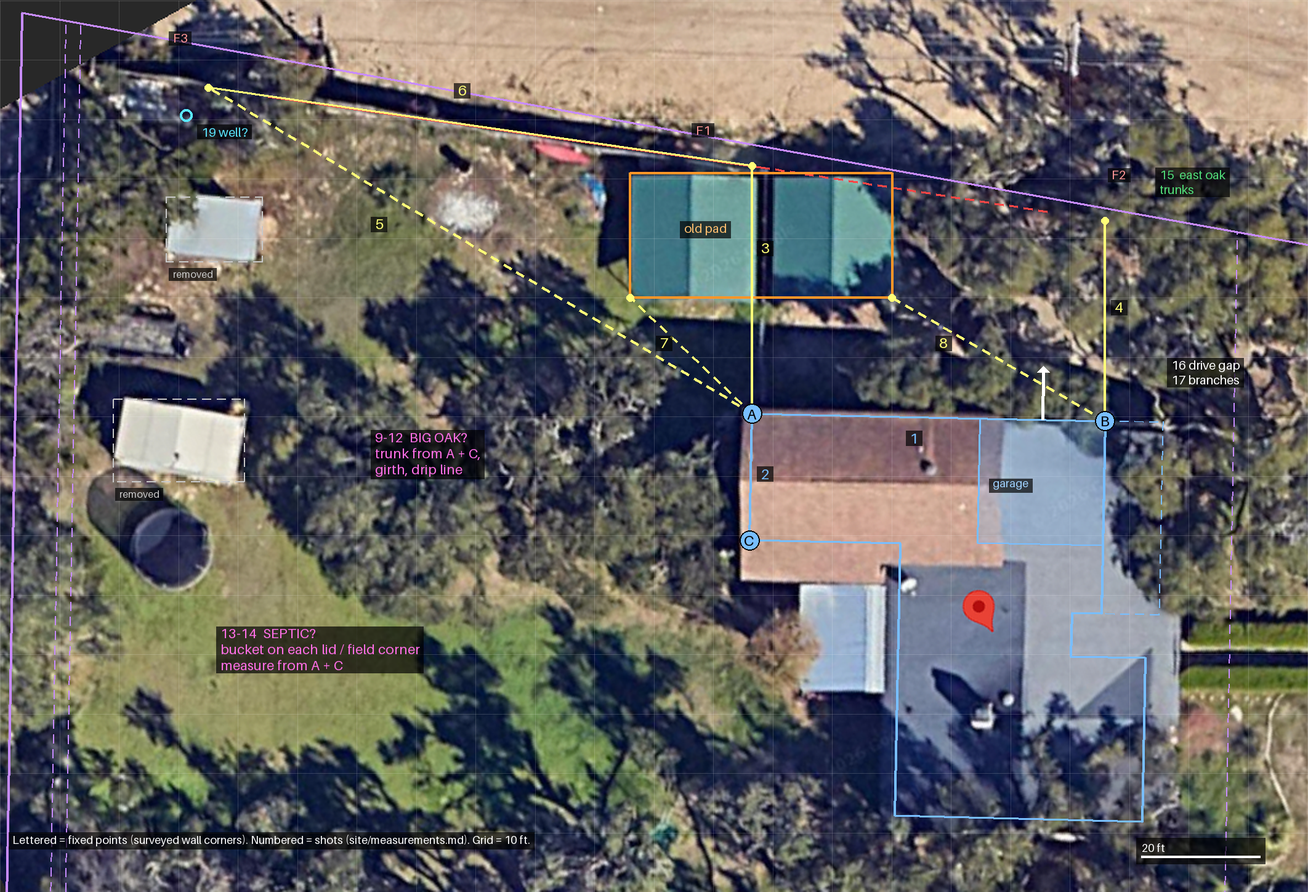
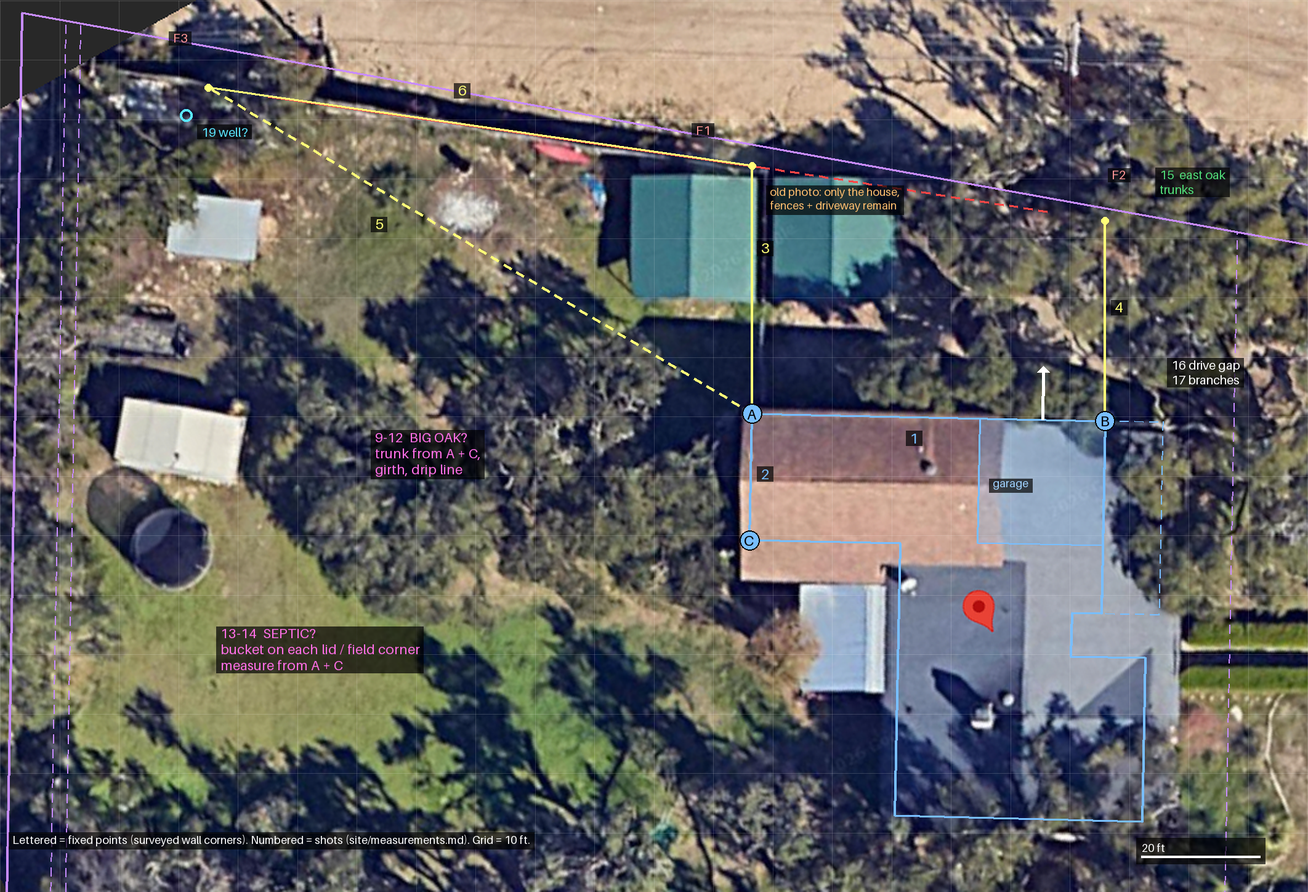
Drop shots to removed structures from the field worksheet
The old carport pad shots (7-8) measured to footings that no longer
exist; they're gone from the map, shot list and CSV, and rows that used
the pad or old sheds as a reference now name the build strip or fence.
The map notes that only the house, fences and driveway remain.

Claude-Session: https://claude.ai/code/session_018cHe8XhgQq9yhHiRQpWsrY

diff --git a/tools/measure_plan.py b/tools/measure_plan.py
@@ -15,7 +15,7 @@ import math
 
 from PIL import ImageFont
 from site_plan import (
-    BLUE, CYAN, GREEN, HOUSE, MAGENTA, ORANGE, RED, REPO, WELL, YELLOW,
+    BLUE, CYAN, GREEN, HOUSE, MAGENTA, RED, REPO, WELL, YELLOW,
     Plan, draw_survey, en_to_site, north_line_y,
 )
 
@@ -31,12 +31,6 @@ def fence_y(x: float) -> float:
 
 
 F1, F2, F3 = (A[0], fence_y(A[0])), (B[0], fence_y(B[0])), (90, fence_y(90))
-PAD = [(161, 129), (205, 129), (205, 150), (161, 150)]
-# Removed since the aerial was taken; outlined so the photo still makes sense.
-REMOVED = [
-    [(83, 133), (99, 133), (99, 144), (83, 144)],
-    [(74, 167), (96, 167), (96, 181), (74, 181)],
-]
 
 
 def marker(plan: Plan, pt, text: str, fill, r: int = 16) -> None:
@@ -60,12 +54,7 @@ def main() -> None:
     draw_survey(plan)
     plan.line([(100, 116.1), (183, 128)], RED, width=4)
     plan.line([(183, 128), (232, 135.6)], RED, width=4, dash=True)
-    plan.poly(PAD, ORANGE, width=4)
-    plan.label(170, 137, "old pad", fill=(255, 190, 110), size=20)
-    for outline in REMOVED:
-        plan.poly(outline, (200, 200, 200), width=2, dash=True)
-    plan.label(84, 145, "removed", fill=(200, 200, 200), size=16)
-    plan.label(75, 182, "removed", fill=(200, 200, 200), size=16)
+    plan.label(184.5, 131, "old photo: only the house,\nfences + driveway remain", fill=(255, 190, 110), size=18)
     plan.label(222, 180, "garage", fill=(160, 210, 255), size=18)
 
     # 1-2 baseline along the house walls (calibration against the survey).
@@ -82,10 +71,6 @@ def main() -> None:
     shot(plan, A, F3, "5", at=(118, 136), dash=True)
     shot(plan, F1, F3, "6", at=(132, 113.5))
     plan.label(84, 105, "F3", fill=(255, 150, 150), size=20)
-
-    # 7-8 old pad corners from A and B (bucket on each corner).
-    shot(plan, A, PAD[3], "7", at=(166, 156), dash=True)
-    shot(plan, B, PAD[2], "8", at=(213, 156), dash=True)
 
     # 19 the well on the 1991 plat, if it is still there.
     well = en_to_site(WELL)
@@ -111,7 +96,6 @@ def main() -> None:
         "1 A-B": math.dist(A, B), "2 A-C": math.dist(A, C),
         "3 A-fence (aerial)": A[1] - F1[1], "3 A-line (survey, vertical)": A[1] - north_line_y(A[0]),
         "4 B-fence (aerial)": B[1] - F2[1], "5 A-F3": math.dist(A, F3), "6 F1-F3": math.dist(F1, F3),
-        "7 A-pad SW": math.dist(A, PAD[3]), "8 B-pad SE": math.dist(B, PAD[2]),
         "19 A-well": math.dist(A, well), "19 F1-well": math.dist(F1, well),
     }
     for k, v in est.items():

diff --git a/site/measurements.md b/site/measurements.md
@@ -13,14 +13,14 @@ use them to place everything on a to-scale plan.
 | **B** | East end of the north wall: the garage's front corner, where the front porch starts. |
 | **C** | Where the house's west wall steps back east, about 21 ft south of A. |
 | **F1, F2** | Tape marks you put on the fence during shots 3 and 4. |
-| **F3** | A tape mark on the fence at the far west end of the open strip, about where the small shed used to be (all the sheds are gone now). |
+| **F3** | A tape mark on the fence at the far west end of the open grass strip along it. |
 
 ## How to shoot
 
 - The laser measures from its back edge (check the setting). Rest the back edge on the point.
 - **Square off a wall:** lay the laser's back flat against the wall and the beam shoots straight out from it.
 - The beam needs something to hit. Walls, trunks and the fence all work.
-  For a spot on open ground (septic lid, field corner, pad corner), set a bucket
+  For a spot on open ground (septic lid, field corner), set a bucket
   or box on it. Shoot its near side and add half its width.
 - For trunk shots, just hit the near face of the trunk. I'll add the radius from the girth (shot 11).
 - If a line is blocked by a tree, shoot from any other lettered point and say which one.
@@ -39,18 +39,16 @@ use them to place everything on a to-scale plan.
 | 4 | B → fence | square off the north wall; tape the spot = **F2**. The surveyed line is 35.2 ft out. | ~34 ft | |
 | 5 | A → F3 | aim the dot at the tape mark | ~107 ft | |
 | 6 | F1 → F3 | along the fence; bucket or helper at the far end | ~92 ft | |
-| 7 | A → old pad SW corner | bucket on the corner (skip if you can't find the old footprint) | ~28 ft | |
-| 8 | B → old pad SE corner | bucket on the corner (skip if you can't find the old footprint) | ~41 ft | |
 | 9 | A → big oak trunk | hit the trunk face | ? | |
 | 10 | C → big oak trunk | hit the trunk face | ? | |
 | 11 | Big oak girth | tape around the trunk at 4.5 ft off the ground | ? | |
 | 12 | Big oak drip line | trunk → outer edge of the branches, on the side facing the build site | ? | |
 | 13 | Septic tank lid(s) | bucket on each lid; one shot from A, one from C | ? | |
 | 14 | Drain field corners or spray heads | bucket on each; one shot from A, one from C | ? | |
-| 15 | East oak trunks | any trunk within ~15 ft of the pad's east end: from B and A, plus girth | ? | |
+| 15 | East oak trunks | trunks in the strip between the garage's north wall and the fence: from B and A, plus girth | ? | |
 | 16 | Drive, narrowest gap | trunk-to-trunk (or other obstacle) at the tightest spot on the way in | ? | |
-| 17 | Lowest branches | aim straight up: a few spots over the pad and over the drive | ? | |
-| 18 | Slope (optional) | which way the pad area drops, and roughly how much | ? | |
+| 17 | Lowest branches | aim straight up: a few spots over the build strip and over the drive | ? | |
+| 18 | Slope (optional) | which way the build strip drops, and roughly how much | ? | |
 | 19 | Well | the 1991 plat shows a well near the NW corner, ~28 ft in from the back line and ~12 ft from the US-290 line. Is it still there (casing, cap or pump)? If so: from A and from F1. | ~108 ft from A | |
 
 ## Also note

diff --git a/site/notes.md b/site/notes.md
@@ -10,6 +10,8 @@ as they come in.
   the previous owners removed **all the sheds** and the **teal-roofed carport
   canopies**, so nothing in the north and west yards shown on the aerial is still
   standing.
+- **The only structures on the lot now are the house, the fences and the driveway**
+  (owner, Oct 2026). Everything else visible on the aerial is gone.
 
 ## Property record (Travis CAD, 2026)
 
